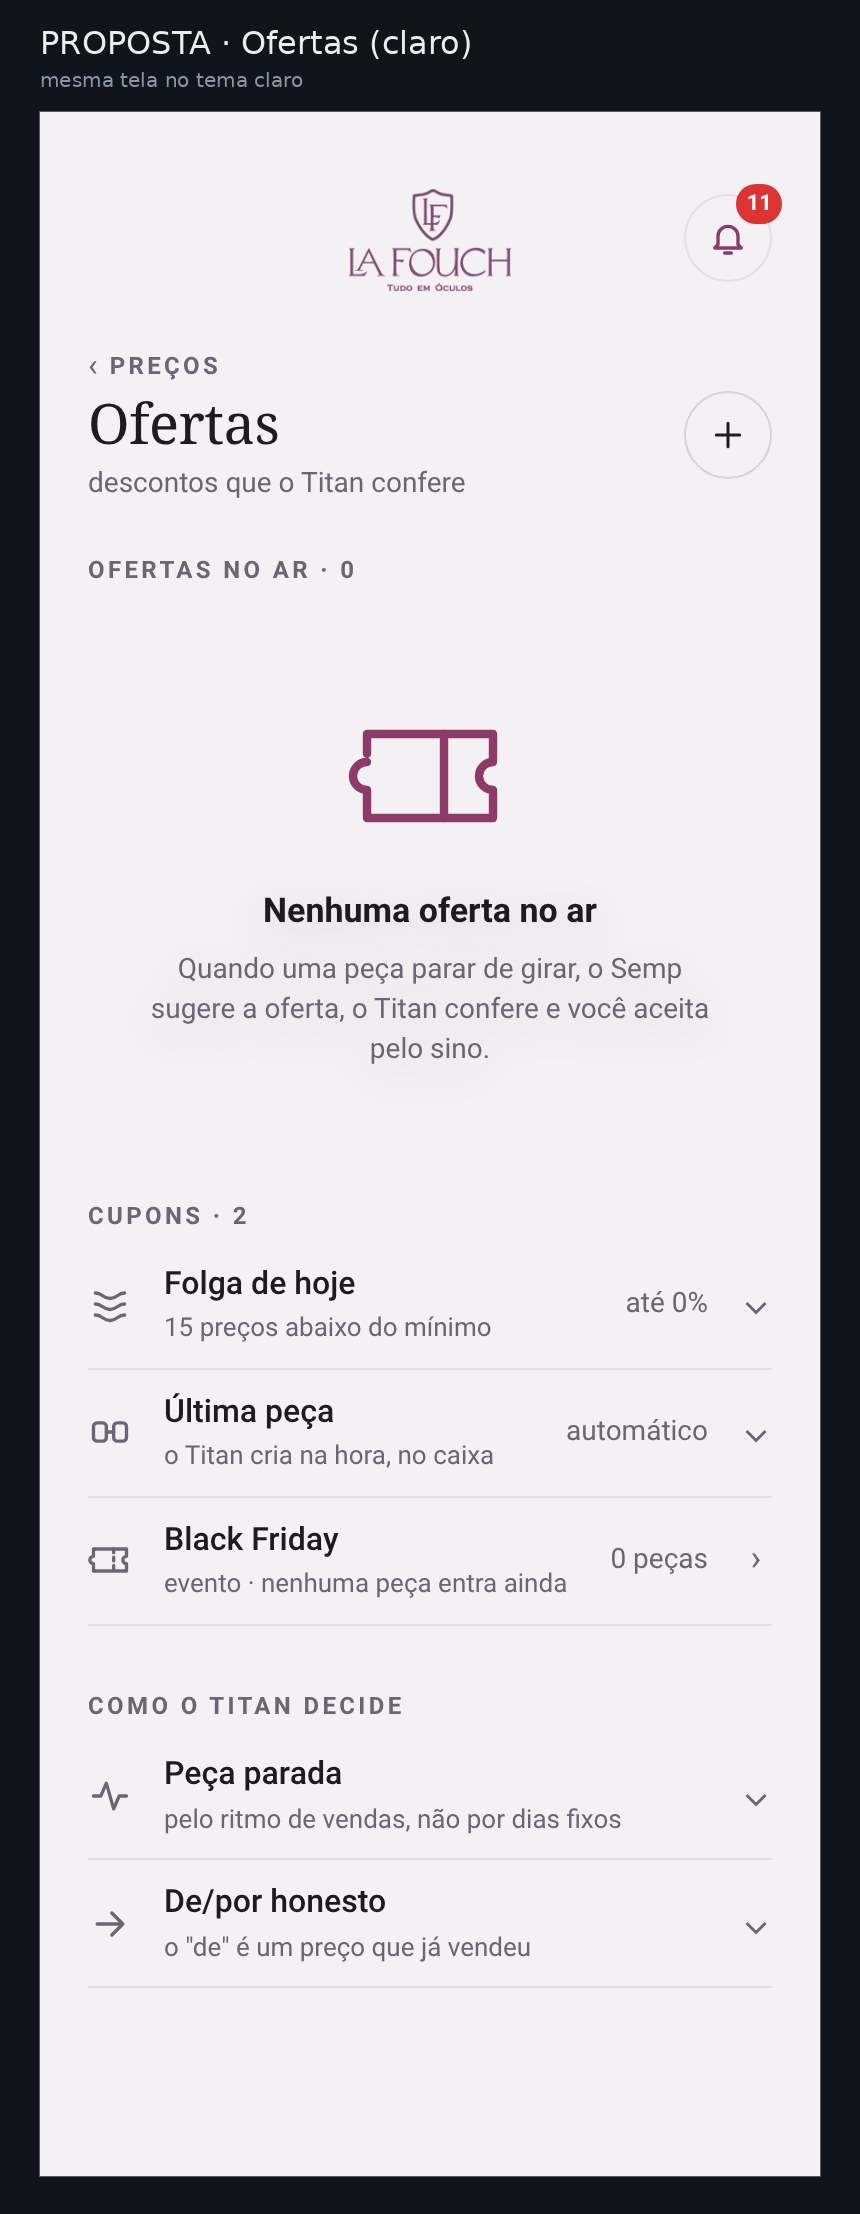
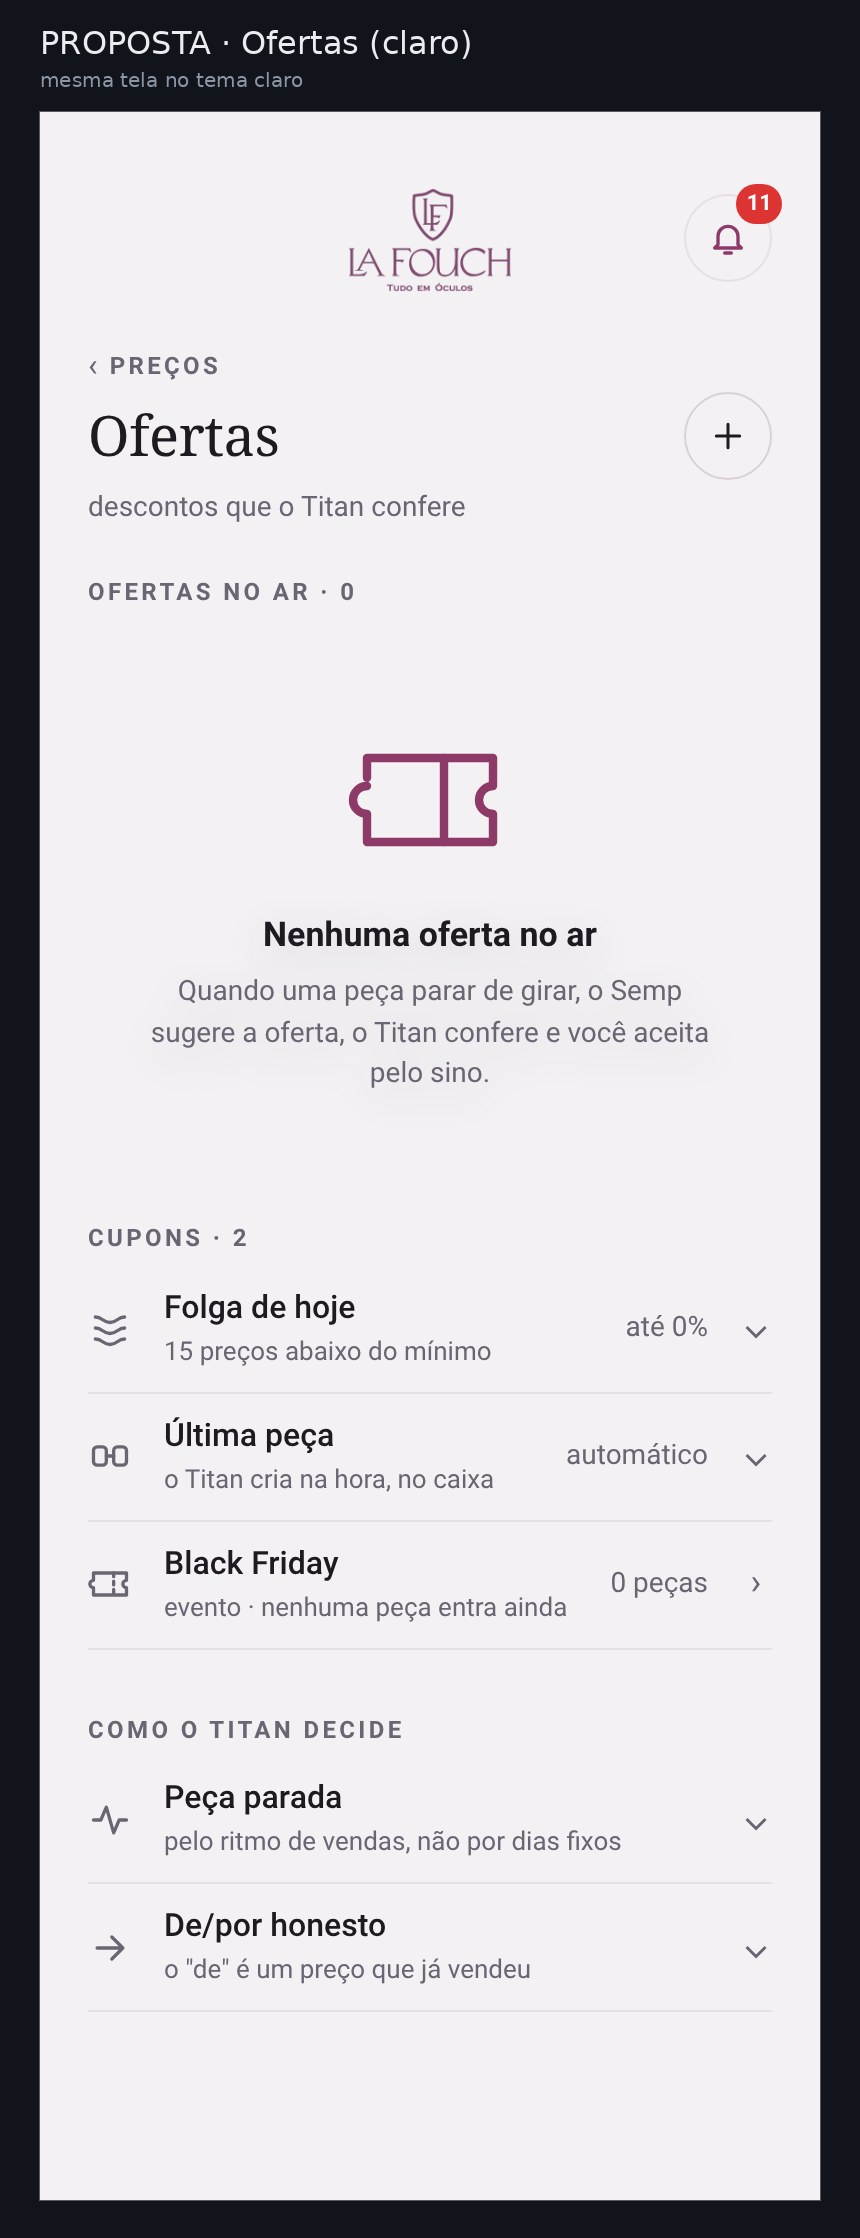
+ redondo na linha do título (L2); 63 e 65 refeitos
Claude-Session: https://claude.ai/code/session_01Vj5GPRt4UBskC3w8v52h7G

diff --git a/work/s435/selo/esboco_49.py b/work/s435/selo/esboco_49.py
@@ -11,7 +11,7 @@ const SV=p=>'<svg width="22" height="22" viewBox="0 0 24 24" fill="none" stroke=
 const ROW=(ic,t,s,dir,n,ch)=>'<button type="button" style="display:flex;align-items:center;gap:16px;width:100%;min-height:64px;background:none;border:0;border-bottom:1px solid var(--line2);padding:10px 0;color:var(--fg);font:inherit;text-align:left">'+(ic?SV(ic):'')+'<span style="flex:1;min-width:0;display:flex;flex-direction:column;gap:2px"><b style="font-size:16px;font-weight:500">'+t+'</b>'+(s?'<small style="font-size:13px;color:var(--mute)">'+s+'</small>':'')+'</span>'+(dir||'')+(n?SEL(n):'')+'<i style="font-style:normal;font-size:20px;color:var(--mute);width:14px;text-align:center">'+(ch||'›')+'</i></button>';
 const LBL=(t,d)=>'<div style="display:flex;justify-content:space-between;align-items:baseline;font-size:11px;font-weight:700;letter-spacing:.14em;text-transform:uppercase;color:var(--mute);margin:32px 0 4px"><span>'+t+'</span>'+(d?'<span>'+d+'</span>':'')+'</div>';
 const VAZIO=(ic,f,e)=>'<div style="text-align:center;padding:32px 16px"><svg width="40" height="40" viewBox="0 0 24 24" fill="none" stroke="var(--accent-fg)" stroke-width="1.6" stroke-linecap="round" stroke-linejoin="round">'+ic+'</svg><b style="display:block;font-size:16px;margin:12px 0 4px">'+f+'</b><div style="color:var(--mute);font-size:14px;line-height:1.45">'+e+'</div></div>';
-const TOP=(vs,t,s,mais)=>'<button type="button" class="nvVs"><i aria-hidden="true">‹</i>'+vs+'</button><div style="display:flex;align-items:center;justify-content:space-between;gap:16px"><div><h1 style="margin:0;font-family:var(--serif,Georgia,serif);font-weight:400;font-size:32px">'+t+'</h1>'+(s?'<div style="color:var(--mute);font-size:14px;margin-top:4px">'+s+'</div>':'')+'</div>'+(mais?'<button class="pl78" type="button" style="margin:0"><svg viewBox="0 0 24 24" fill="none" stroke="currentColor" stroke-width="2" stroke-linecap="round"><path d="M12 5v14M5 12h14"/></svg></button>':'')+'</div>';
+const TOP=(vs,t,s,mais)=>'<button type="button" class="nvVs"><i aria-hidden="true">‹</i>'+vs+'</button><div style="display:flex;align-items:center;justify-content:space-between;gap:16px"><h1 style="margin:0;font-family:var(--serif,Georgia,serif);font-weight:400;font-size:32px;line-height:44px">'+t+'</h1>'+(mais?'<button class="pl78" type="button" style="margin:0;flex:none"><svg viewBox="0 0 24 24" fill="none" stroke="currentColor" stroke-width="2" stroke-linecap="round"><path d="M12 5v14M5 12h14"/></svg></button>':'')+'</div>'+(s?'<div style="color:var(--mute);font-size:14px;margin-top:4px">'+s+'</div>':'');  // 22/11 13:09: o + redondo fica na LINHA DO TÍTULO, centro com centro (L2); o subtítulo vem embaixo
 const ABAS=(L,on)=>'<div style="display:flex;gap:24px;border-bottom:1px solid var(--line2);margin:24px 0 8px">'+L.map((t,i)=>'<span style="padding:10px 0;font-size:15px;'+(i==on?'color:var(--fg);border-bottom:2px solid var(--accent);font-weight:600':'color:var(--mute)')+'">'+t+'</span>').join('')+'</div>';
 const IC={msg:'<path d="M21 12a8 8 0 0 1-11.6 7.1L4 20l1-4.6A8 8 0 1 1 21 12z"/>',lote:'<path d="M12 3l8 4.5v9L12 21l-8-4.5v-9z"/><path d="M12 12l8-4.5M12 12v9M12 12L4 7.5"/>',tab:'<rect x="3" y="4" width="18" height="16" rx="2"/><path d="M3 10h18M9 10v10"/>',pes:'<circle cx="12" cy="8" r="4"/><path d="M4 21c1.5-4 4.5-6 8-6s6.5 2 8 6"/>',av:'<path d="M12 3l9.5 17h-19z"/><path d="M12 10v4M12 17h.01"/>',env:'<path d="M4 12v7a1 1 0 0 0 1 1h14a1 1 0 0 0 1-1v-7M16 6l-4-4-4 4M12 2v13"/>'};"""
 def pagina(pg,html):

diff --git a/work/s435/titan/esboco_65.py b/work/s435/titan/esboco_65.py
@@ -22,6 +22,8 @@ def atacado(pw,conta):
   b,pg,w=ap.abre(pw,'inicio',True,'celular',base=True);w(600)
   if conta: pg.evaluate("()=>{__LF.S.ataContas['t65']={id:'t65',nome:'Lojista de teste',email:'',tel:'',tipo:'assoc',tab:'a1',dispMax:3,trocaOk:true,moeda:'usd',aparelhos:[],ts:Date.now()}}")
   pg.evaluate("()=>{__LF.S.ataAba='loj';__LF.setView('ata')}");w(1400)
+  # L2: o + redondo centro com centro na linha do título (hoje fica 4 px abaixo) — regra única para todos os títulos com +
+  pg.evaluate(r"""()=>{const f=()=>{const v=document.getElementById('v-ata');if(!v)return;const h=[...v.querySelectorAll('h1')].find(x=>x.offsetParent);const p=[...v.querySelectorAll('button')].find(b=>b.offsetParent&&b.textContent.trim()==='+');if(!h||!p||p.dataset.e65)return;p.dataset.e65=1;const a=h.getBoundingClientRect(),b=p.getBoundingClientRect();p.style.transform='translateY('+((a.top+a.bottom)/2-(b.top+b.bottom)/2)+'px)'};f();new MutationObserver(f).observe(document.body,{childList:true,subtree:true})}""");w(300)
   # 3 abas: a 'Tabela' sai (vira o setor do Titan); 'Enviar catálogo a um lojista' vai para o começo de Lojistas
   pg.evaluate(r"""()=>{const f=()=>{const v=document.getElementById('v-ata');if(!v)return;v.querySelectorAll('[data-act=ataAba][data-id=tab]').forEach(b=>b.remove());
      if(!v.querySelector('.e65env')){const ab=v.querySelector('[role=tablist]')||v.querySelector('[data-act=ataAba]')?.parentElement;if(ab){ab.insertAdjacentHTML('afterend','<button type="button" class="e65env" style="display:flex;align-items:center;gap:16px;width:100%;min-height:64px;background:none;border:0;border-bottom:1px solid var(--line2);color:var(--fg);font:inherit;text-align:left;margin-top:8px"><span style="flex:1"><b style="display:block;font-size:16px;font-weight:500">Enviar catálogo a um lojista</b><small style="font-size:13px;color:var(--mute)">catálogo PDF ou planilha, com a tabela dele</small></span><i style="font-style:normal;color:var(--mute);font-size:18px">›</i></button>')}}};

diff --git a/docs/FALTA-APROVAR-15-11.md b/docs/FALTA-APROVAR-15-11.md
@@ -1116,3 +1116,4 @@ Não são esquecimento (estavam na lista, parados de propósito ou por ordem do 
 - 22/11 13:01 · DONO decidiu o ATACADO: o Titan trabalha só nas MARGENS das tabelas (setor no escritório); no Atacado o dono só ESCOLHE a tabela de cada atacadista. Leitura: a aba 'Tabela' sai do Atacado (fica Mensagens · Lojistas · Lotes); a conta do lojista (e o lote, que também usa tabela) ganha a linha 'Tabela ›' para escolher. Próximo: esboço 65.
 - 22/11 13:15 · ESBOCO: esboço 65 enviado — ATACADO: (1) Preços › Atacado (setor do Titan): as 7 tabelas com a margem e o mínimo, e o estado de cada uma ('15 no chão' em amarelo = não consegue a margem e fica no mínimo da peça); (2) Atacado com 3 abas (sai 'Tabela'); 'Enviar catálogo a um lojista ›' vai para o começo de Lojistas; 'Ver a tabela' e 'Editar tabelas' vão para o Titan; (3) conta do lojista ganha 'Tabela de preço · Atacado 1K ›' para o dono escolher (hoje o app põe sozinho a 1ª tabela de atacado). Lojista do quadro = de teste.
 - 22/11 13:06 · DONO: a conta do lojista (janela de 17/11, 77d/77e) não está no padrão de luxo atual → 'Sim' para refazer. 65 refeito: conta com UM título (o nome) + 'Lojista fixo · Ativa · não vence', um eixo à esquerda, linhas finas sem caixas: Tabela de preço (Atacado 1K · 40% · mín. US$ 1.000 ›) · Aparelhos (Em uso 0 de 3 · Limite − 3 +) · Acesso (Pode trocar de aparelho) · Moeda (US$ · Gs. · R$) · Lotes de atacado › · 'Enviar convite pelo WhatsApp' · Pausar conta / Cancelar conta (vermelho) com a frase embaixo. Sai o título 'Conta atacadista' e o cabeçalho centralizado.
+- 22/11 13:09 · DONO: o '+' parecia desalinhado. MEDIDO: no Atacado o + fica 4 px abaixo do centro do título (h1 118–150 × + 116–160); no Inventário 2 px; nos meus esboços o + centrava no bloco título+subtítulo. REGRA ÚNICA (L2, 12c): o botão redondo ao lado do título fica na LINHA DO TÍTULO, centro com centro; o subtítulo vem embaixo, fora dessa linha — vale para todas as telas com + ou ⏻. Corrigido no gerador dos esboços (TOP em work/s435/selo/esboco_49.py) e refeitos 63 e 65. Vai no 'como fazer' do Titan e avisar a APP.

diff --git a/docs/MEMORIA-PROJETO.md b/docs/MEMORIA-PROJETO.md
@@ -3618,3 +3618,4 @@ Testar TUDO, com muita calma, antes de dizer que está pronto ou de publicar: ca
 - 22/11 13:01 · DONO decidiu o ATACADO: o Titan trabalha só nas MARGENS das tabelas (setor no escritório); no Atacado o dono só ESCOLHE a tabela de cada atacadista. Leitura: a aba 'Tabela' sai do Atacado (fica Mensagens · Lojistas · Lotes); a conta do lojista (e o lote, que também usa tabela) ganha a linha 'Tabela ›' para escolher. Próximo: esboço 65.
 - 22/11 13:15 · ESBOCO: esboço 65 enviado — ATACADO: (1) Preços › Atacado (setor do Titan): as 7 tabelas com a margem e o mínimo, e o estado de cada uma ('15 no chão' em amarelo = não consegue a margem e fica no mínimo da peça); (2) Atacado com 3 abas (sai 'Tabela'); 'Enviar catálogo a um lojista ›' vai para o começo de Lojistas; 'Ver a tabela' e 'Editar tabelas' vão para o Titan; (3) conta do lojista ganha 'Tabela de preço · Atacado 1K ›' para o dono escolher (hoje o app põe sozinho a 1ª tabela de atacado). Lojista do quadro = de teste.
 - 22/11 13:06 · DONO: a conta do lojista (janela de 17/11, 77d/77e) não está no padrão de luxo atual → 'Sim' para refazer. 65 refeito: conta com UM título (o nome) + 'Lojista fixo · Ativa · não vence', um eixo à esquerda, linhas finas sem caixas: Tabela de preço (Atacado 1K · 40% · mín. US$ 1.000 ›) · Aparelhos (Em uso 0 de 3 · Limite − 3 +) · Acesso (Pode trocar de aparelho) · Moeda (US$ · Gs. · R$) · Lotes de atacado › · 'Enviar convite pelo WhatsApp' · Pausar conta / Cancelar conta (vermelho) com a frase embaixo. Sai o título 'Conta atacadista' e o cabeçalho centralizado.
+- 22/11 13:09 · DONO: o '+' parecia desalinhado. MEDIDO: no Atacado o + fica 4 px abaixo do centro do título (h1 118–150 × + 116–160); no Inventário 2 px; nos meus esboços o + centrava no bloco título+subtítulo. REGRA ÚNICA (L2, 12c): o botão redondo ao lado do título fica na LINHA DO TÍTULO, centro com centro; o subtítulo vem embaixo, fora dessa linha — vale para todas as telas com + ou ⏻. Corrigido no gerador dos esboços (TOP em work/s435/selo/esboco_49.py) e refeitos 63 e 65. Vai no 'como fazer' do Titan e avisar a APP.
